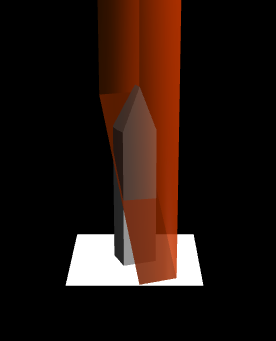
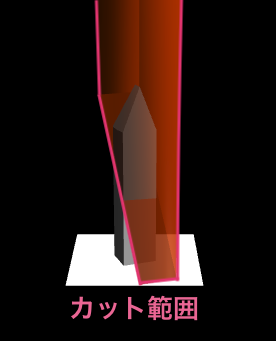
feat add figure

Changed region(s): [[0.3188, 0.0, 0.7246, 0.9384], [0.2609, 0.8504, 0.4348, 0.9384]]

diff --git a/docs/manual/ConditionalVolumeGeneration.html b/docs/manual/ConditionalVolumeGeneration.html
@@ -247,24 +247,27 @@
 </code></pre>
 <p>各パラメーターに関して説明します。</p>
 <ul>
-<li><p>siteArea<br>
+<li>siteArea<br>
 敷地面積を入力します。
 入力する値の単位は平方メートルです。
-敷地面積は建物が建っている敷地全体の面積になります。</p>
-</li>
-<li><p>building<br>
+敷地面積は建物が建っている敷地全体の面積になります。</li>
+</ul>
+<p><img src="../resources/manual/conditionalVolumeGeneration/foot.png" alt=""></p>
+<ul>
+<li>building<br>
 フットプリント(敷地に対する建築の占有領域)の中心を原点(x:0, y:0, z:0)とし、 フットプリントのポリゴンの各頂点座標を入力します。<br>
 座標は平面座標系(Z方向が高さを表します)、単位はメートルで入力します。<br>
-この座標配列から高さ方向に押し出しポリゴン生成方式で建物形状のモデルデータを生成します。</p>
-</li>
-<li><p>syasenPlanes<br>
+この座標配列から高さ方向に押し出しポリゴン生成方式で建物形状のモデルデータを生成します。</li>
+</ul>
+<p><img src="../resources/manual/conditionalVolumeGeneration/foot2.png" alt=""></p>
+<ul>
+<li>syasenPlanes<br>
 道路外側斜線制限平面のローカル座標を入力します。<br>
 座標は平面座標系(Z方向が高さを表します)、単位はメートルで入力します。<br>
 斜線制限とは道路境界線または隣地境界線からの距離に応じて建築物の各部分の高さを制限することにより、
 道路や隣地の採光、通風を確保し、圧迫感を和らげるものです。
 フットプリントの中心を原点(x:0, y:0, z:0)とし、
-斜線制限の領域を空間内で平面として表す斜線制限平面のポリゴンの各頂点座標を入力します。</p>
-</li>
+斜線制限の領域を空間内で平面として表す斜線制限平面のポリゴンの各頂点座標を入力します。</li>
 </ul>
 <pre><code class="lang-json">  [
     {
@@ -292,24 +295,35 @@
 <p>斜線制限が複数ある場合は全て入力します。<br>
 この座標配列から高さ方向に押し出しポリゴン生成方式でカット範囲のモデルデータを作成し、建物形状のモデルデータをカットします。
 <br></p>
+<p>下図は道路斜線制限平面のイメージです。<br></p>
+<p><img src="../resources/manual/conditionalVolumeGeneration/syasenPlane.png" alt=""></p>
 <p>下図はカットする範囲のイメージです。<br>
-赤色のモデルが道路外側斜線制限平面の座標配列を元に作成したカット範囲のモデルデータです。</p>
+赤色のモデルが道路外側斜線制限平面の座標配列を元に高さ方向に押し出し生成したカット範囲のモデルデータです。</p>
 <p><img src="../resources/manual/conditionalVolumeGeneration/cut_ex1.png" alt=""></p>
 <p>建物形状と重なる部分がカットされます。</p>
 <p><img src="../resources/manual/conditionalVolumeGeneration/cut_ex2.png" alt=""></p>
 <ul>
-<li><p>rinchPlanes<br>
+<li>rinchPlanes<br>
 隣地斜線制限平面のローカル座標を入力します。<br>
 座標は平面座標系(Z方向が高さを表します)、単位はメートルで入力します。<br>
 道路外側斜線制限平面の場合と同様にフットプリントの中心を原点(x:0, y:0, z:0)とし、
-斜線制限の領域を空間内で平面として表す斜線制限平面のポリゴンの各頂点座標を入力します。</p>
-</li>
-<li><p>citygml_me<br>
+斜線制限の領域を空間内で平面として表す斜線制限平面のポリゴンの各頂点座標を入力します。</li>
+</ul>
+<p><img src="../resources/manual/conditionalVolumeGeneration/rinchiCut1.png" alt=""></p>
+<p><img src="../resources/manual/conditionalVolumeGeneration/rinchiCut2.png" alt=""></p>
+<p><img src="../resources/manual/conditionalVolumeGeneration/rinchiCut3.png" alt=""></p>
+<p>複数の制限平面があればそれぞれ処理されていきます。</p>
+<p><img src="../resources/manual/conditionalVolumeGeneration/rinchiCut4.png" alt=""></p>
+<p><img src="../resources/manual/conditionalVolumeGeneration/rinchiCut5.png" alt=""></p>
+<ul>
+<li>citygml_me<br>
 元のビルの高さを入力します。<br>
 入力する値の単位はメートルです。
 元のビルの高さは余剰容積ボリュームを算定する対象の建物の高さのことで、地盤面からルーフまでの高さを指します。
-この高さで建物形状の高さを押上ポリゴン生成で作成します。</p>
-</li>
+この高さで建物形状の高さを押上ポリゴン生成で作成します。</li>
+</ul>
+<p><img src="../resources/manual/conditionalVolumeGeneration/originBldgHeight.png" alt=""></p>
+<ul>
 <li><p>far<br>
 容積率を入力します。<br>
 入力する値の単位はパーセントです。
@@ -320,11 +334,13 @@
 入力する値の単位はメートルです。
 階高は建物の各階の高さです。</p>
 </li>
-<li><p>maxLimitH<br>
+</ul>
+<p><img src="../resources/manual/conditionalVolumeGeneration/kaidaka.png" alt=""></p>
+<ul>
+<li>maxLimitH<br>
 生成する容積ボリュームの最高高さの制限値を指定します。
 入力する値の単位はメートルです。
-地区計画などで、地域ごとに建物高さの最大値が指定されている場合は、ここにその最大値を指定します。</p>
-</li>
+地区計画などで、地域ごとに建物高さの最大値が指定されている場合は、ここにその最大値を指定します。</li>
 </ul>
 <p>建築物情報のJSONデータをAPIの関数に渡すと、本アプリケーションで定義されている<code>BuildingParam</code>という型エイリアスに格納されます。<br></p>
 <pre><code class="lang-typescript">type BuildingParam = {
